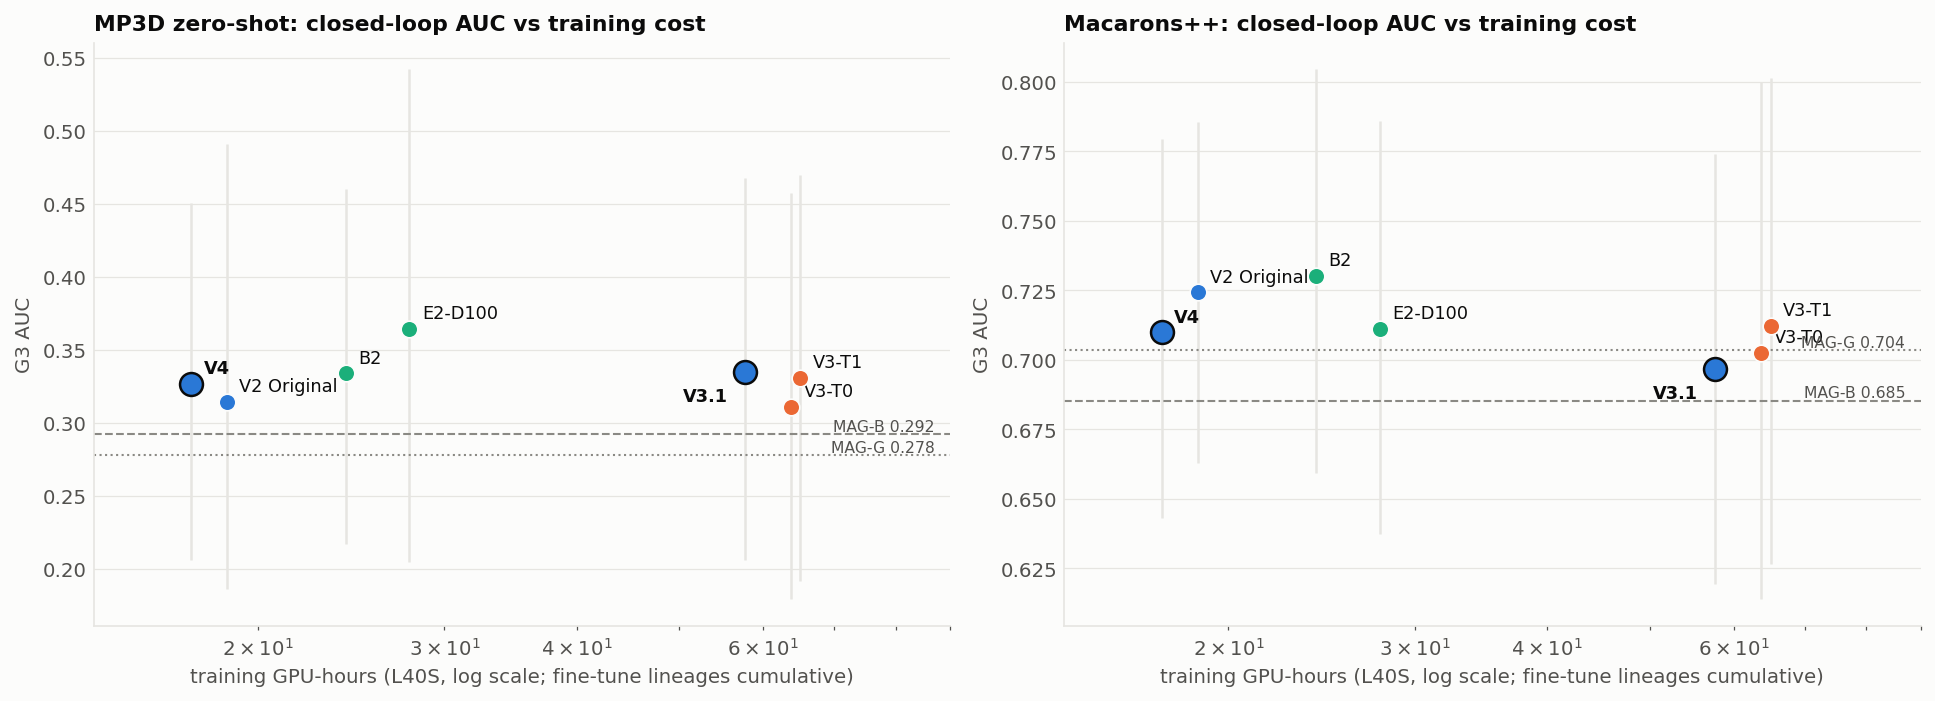
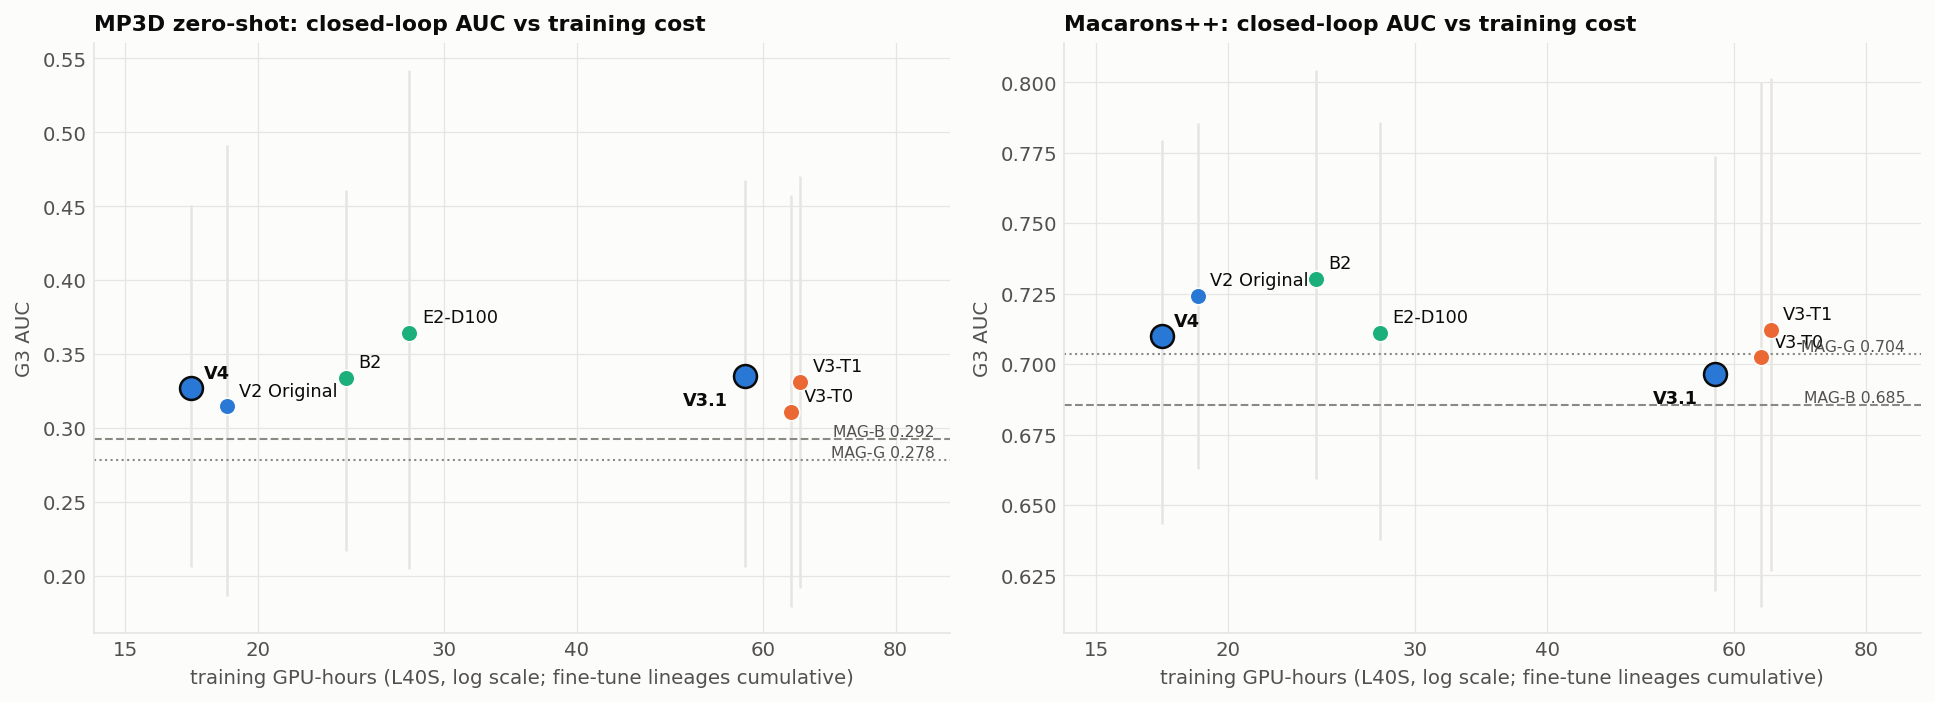
[EXP6][docs] weekly report: plain GPU-hour ticks on the cost figure

diff --git a/experiments/exp6_v4/weekly_report/scripts/make_weekly_report.py b/experiments/exp6_v4/weekly_report/scripts/make_weekly_report.py
@@ -276,7 +276,8 @@ def fig_cost():
         for g, ls in (("MAG-G", ":"), ("MAG-B", "--")):
             m, _, _ = mean_ci(d, "auc", g)
             ax.axhline(m, color=MUTED, lw=1, ls=ls); ax.text(88, m, f"{g} {m:.3f} ", va="bottom", ha="right", fontsize=7.5, color=INK2)
-        ax.set_xscale("log"); ax.set_xlim(14, 90); ax.set_xlabel("training GPU-hours (L40S, log scale; fine-tune lineages cumulative)"); ax.set_ylabel("G3 AUC")
+        ax.set_xscale("log"); ax.set_xlim(14, 90); ax.set_xticks([15, 20, 30, 40, 60, 80]); ax.set_xticklabels(["15", "20", "30", "40", "60", "80"]); ax.minorticks_off()
+        ax.set_xlabel("training GPU-hours (L40S, log scale; fine-tune lineages cumulative)"); ax.set_ylabel("G3 AUC")
         ax.set_title(f"{DOM[d].split(' (')[0]}: closed-loop AUC vs training cost", loc="left"); clean(ax)
     fig.tight_layout()
     fig.savefig(os.path.join(FIG, "fig9_cost_vs_performance.png"), dpi=150, bbox_inches="tight"); plt.close(fig)
